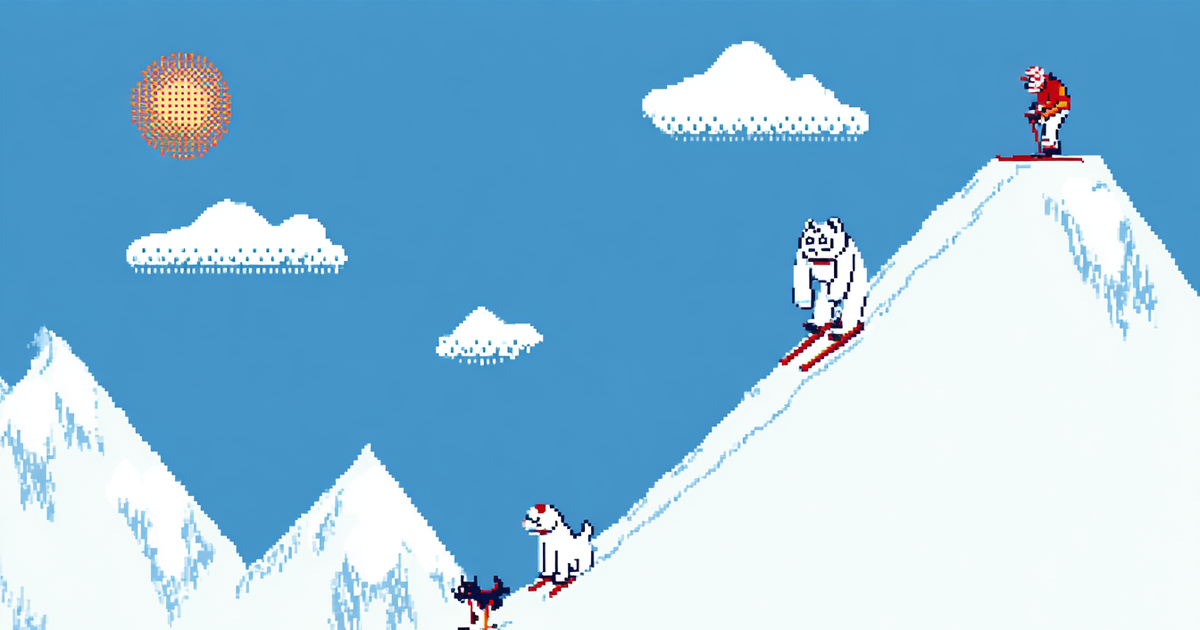
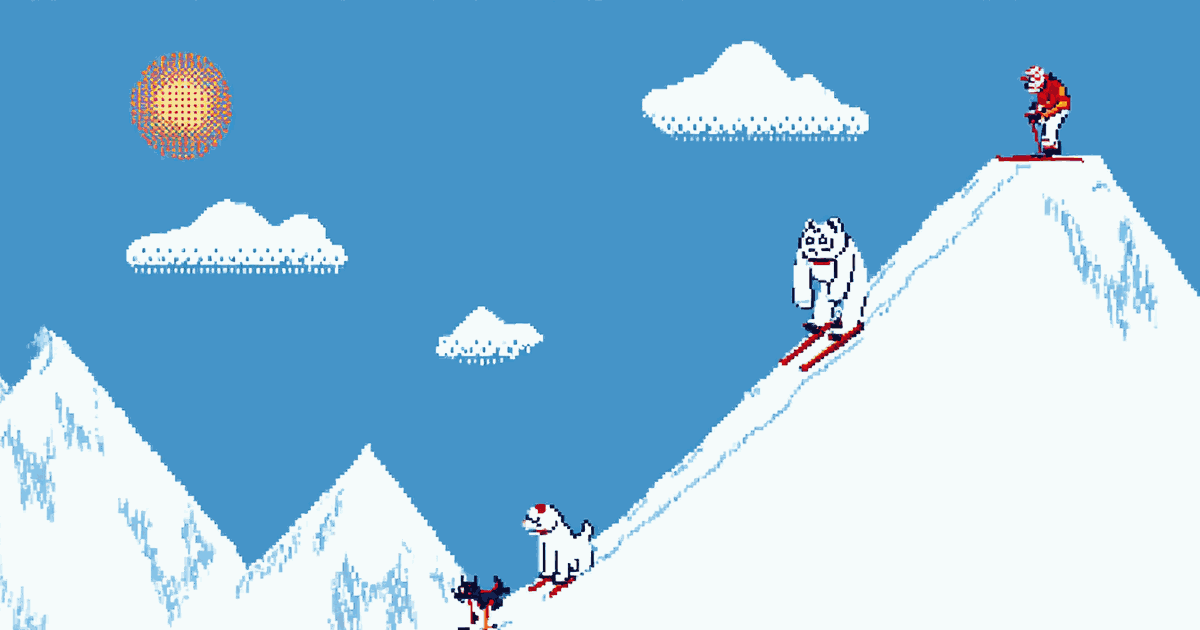
Optimize preview.png and add stricter Open Graph tags

diff --git a/index.html b/index.html
@@ -6,13 +6,16 @@
 <meta name="viewport" content="width=device-width, initial-scale=1">
 <meta name="description" content="Waste a couple minutes of your life with this free game. A retro pixel downhill skier where you play as a cat.">
 
-<!-- Open Graph (iMessage, Slack, Discord, Facebook, LinkedIn) -->
+<!-- Open Graph (iMessage, Slack, Discord, Facebook, LinkedIn, WhatsApp) -->
 <meta property="og:title" content="CAT SKI // 1989">
 <meta property="og:description" content="Waste a couple minutes of your life with this free game.">
 <meta property="og:image" content="https://ski.mike-lee.me/preview.png">
+<meta property="og:image:secure_url" content="https://ski.mike-lee.me/preview.png">
+<meta property="og:image:type" content="image/png">
 <meta property="og:image:width" content="1200">
 <meta property="og:image:height" content="630">
-<meta property="og:url" content="https://ski.mike-lee.me">
+<meta property="og:image:alt" content="Pixel-art downhill skiing scene with a cat, a dog, a yeti, and a skier on a peak">
+<meta property="og:url" content="https://ski.mike-lee.me/">
 <meta property="og:type" content="website">
 <meta property="og:site_name" content="cat-ski">
 
@@ -21,6 +24,7 @@
 <meta name="twitter:title" content="CAT SKI // 1989">
 <meta name="twitter:description" content="Waste a couple minutes of your life with this free game.">
 <meta name="twitter:image" content="https://ski.mike-lee.me/preview.png">
+<meta name="twitter:image:alt" content="Pixel-art downhill skiing scene with a cat, a dog, a yeti, and a skier on a peak">
 <style>
   /* ---------- RETRO PIXEL AESTHETIC ----------
      Chunky HUD with a CRT vibe. Cool blue snow palette with a single
